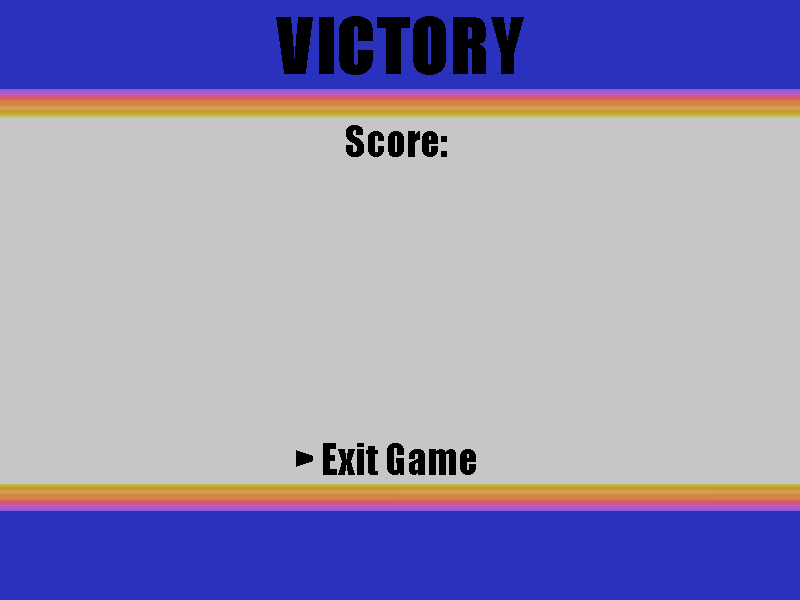
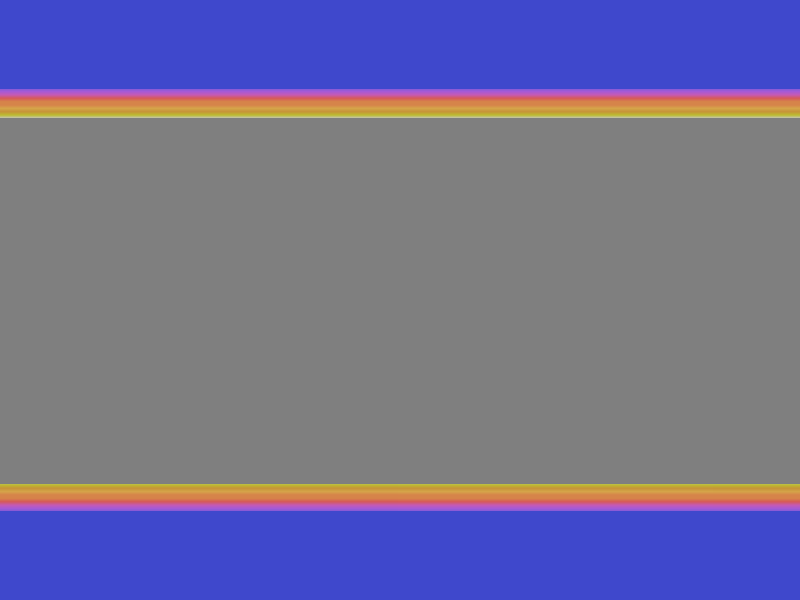
player scores and high score functionality complete

diff --git a/game-source-code/Source-files/Draw.cpp b/game-source-code/Source-files/Draw.cpp
@@ -30,7 +30,13 @@ void Engine::display_manager(float dt)
 				else
 				{
 					window->draw(victory_sprite);
+					window->draw(gameWinTxt);
 					window->draw(scoreBoardTxt);
+					computeScoreBoard(player1, highScoreTxt, player1ScoreTxt);
+					window->draw(player1ScoreTxt);
+					window->draw(player1ScoreTxt);
+					window->draw(highScoreTxt);
+					window->draw(exitTxt);
 					window->display();
 					return;
 				}
@@ -42,15 +48,10 @@ void Engine::display_manager(float dt)
 				window->draw(gameOverTxt);
 				window->draw(exitTxt);
 				window->draw(scoreBoardTxt);
-
-				auto score = std::to_string(player1->retrievePlayerScore());
-				player1ScoreTxt.setString("YOUR SCORE: " + score);
+				computeScoreBoard(player1, highScoreTxt, player1ScoreTxt);
 				window->draw(player1ScoreTxt);
-
-				manage_scores.updateHighScore(player1->retrievePlayerScore());
-				auto high_score = manage_scores.getHighScore();
-				highScoreTxt.setString("HIGH SCORE: " + std::to_string(high_score));
 				window->draw(highScoreTxt);
+				window->draw(exitTxt);
 				window->display();
 				return;
 			}
@@ -103,6 +104,11 @@ void Engine::display_manager(float dt)
 						}
 
 						window->draw(victory_sprite);
+						window->draw(gameWinTxt);
+						computeScoreBoard(player1, highScoreTxt, player1ScoreTxt);
+						window->draw(player1ScoreTxt);
+						window->draw(highScoreTxt);
+						window->draw(exitTxt);
 					}
 				}
 
@@ -112,14 +118,10 @@ void Engine::display_manager(float dt)
 					window->draw(gameOverTxt);
 					window->draw(exitTxt);
 					window->draw(scoreBoardTxt);
-					auto score = std::to_string(player1->retrievePlayerScore());
-					player1ScoreTxt.setString("YOUR SCORE: " + score);
+					computeScoreBoard(player1, highScoreTxt, player1ScoreTxt);
 					window->draw(player1ScoreTxt);
-
-					manage_scores.updateHighScore(player1->retrievePlayerScore());
-					auto high_score = manage_scores.getHighScore();
-					highScoreTxt.setString("HIGH SCORE: " + std::to_string(high_score));
 					window->draw(highScoreTxt);
+					window->draw(exitTxt);
 				}
 				window->draw(line_sprite);
 			}
@@ -172,6 +174,11 @@ void Engine::display_manager(float dt)
 							player1->setState(PlayerState::Dead);
 						}
 						window->draw(victory_sprite);
+						window->draw(gameWinTxt);
+						window->draw(scoreBoardTxt);
+						computeScoreBoard(player2, highScoreTxt, player2ScoreTxt);
+						window->draw(player2ScoreTxt);
+						window->draw(highScoreTxt);
 					}
 				}
 				if (player_stateP2 == PlayerState::Dead)
@@ -179,14 +186,8 @@ void Engine::display_manager(float dt)
 					window->draw(game_over_sprite);
 					window->draw(gameOverTxt);
 					window->draw(scoreBoardTxt);
-
-					auto score = std::to_string(player2->retrievePlayerScore());
-					player2ScoreTxt.setString("YOUR SCORE: " + score);
+					computeScoreBoard(player2, highScoreTxt, player2ScoreTxt);
 					window->draw(player2ScoreTxt);
-
-					manage_scores.updateHighScore(player2->retrievePlayerScore());
-					auto high_score = manage_scores.getHighScore();
-					highScoreTxt.setString("HIGH SCORE: " + std::to_string(high_score));
 					window->draw(highScoreTxt);
 				}
 			}

diff --git a/game-source-code/Source-files/Engine.cpp b/game-source-code/Source-files/Engine.cpp
@@ -64,6 +64,11 @@ Engine::Engine():
 	exitTxt.setPosition(250.5f, 412.0f);
 	exitTxt.setString("Menu(Esc)");
 
+	gameWinTxt.setFont(gameEndFont);
+	gameWinTxt.setCharacterSize(60);
+	gameWinTxt.setPosition(300.0f, 10.0f);
+	gameWinTxt.setString("VICTORY");
+
 	exitTxt.setCharacterSize(60);
 	gameOverTxt.setFillColor(Color::Black);
 	gameOverTxt.setPosition(253.0f, 10.0f);
@@ -107,6 +112,15 @@ void Engine::run()
 		//Draw game entities
 		display_manager(dtAsSeconds);
 	}
+}
+
+void Engine::computeScoreBoard(shared_ptr<Player>& _player,Text& _highScore, Text& _playerScore)
+{
+	auto score = std::to_string(_player->retrievePlayerScore());
+	_playerScore.setString("YOUR SCORE: " + score);
+	manage_scores.updateHighScore(_player->retrievePlayerScore());
+	auto high_score = manage_scores.getHighScore();
+	_highScore.setString("HIGH SCORE: " + std::to_string(high_score));
 }
 
 void Engine::LoadTextures()

diff --git a/game-source-code/Header-files/Engine.h b/game-source-code/Header-files/Engine.h
@@ -97,6 +97,7 @@ private:
 	Sprite line_sprite;
 
 	Text gameOverTxt;
+	Text gameWinTxt;
 	Text exitTxt;
 	Text scoreBoardTxt;
 	Text highScoreTxt;
@@ -152,6 +153,8 @@ private:
 	int counter2;
 
 	void resetGame();
+	void computeScoreBoard(shared_ptr<Player>& _player, Text& _highScore, Text& _playerScore);
+
 	//template function to draw all animals in the game over world
 	template<typename _Animal>
 	void draw_overWorld(const vector<shared_ptr<_Animal>>& _animals)
